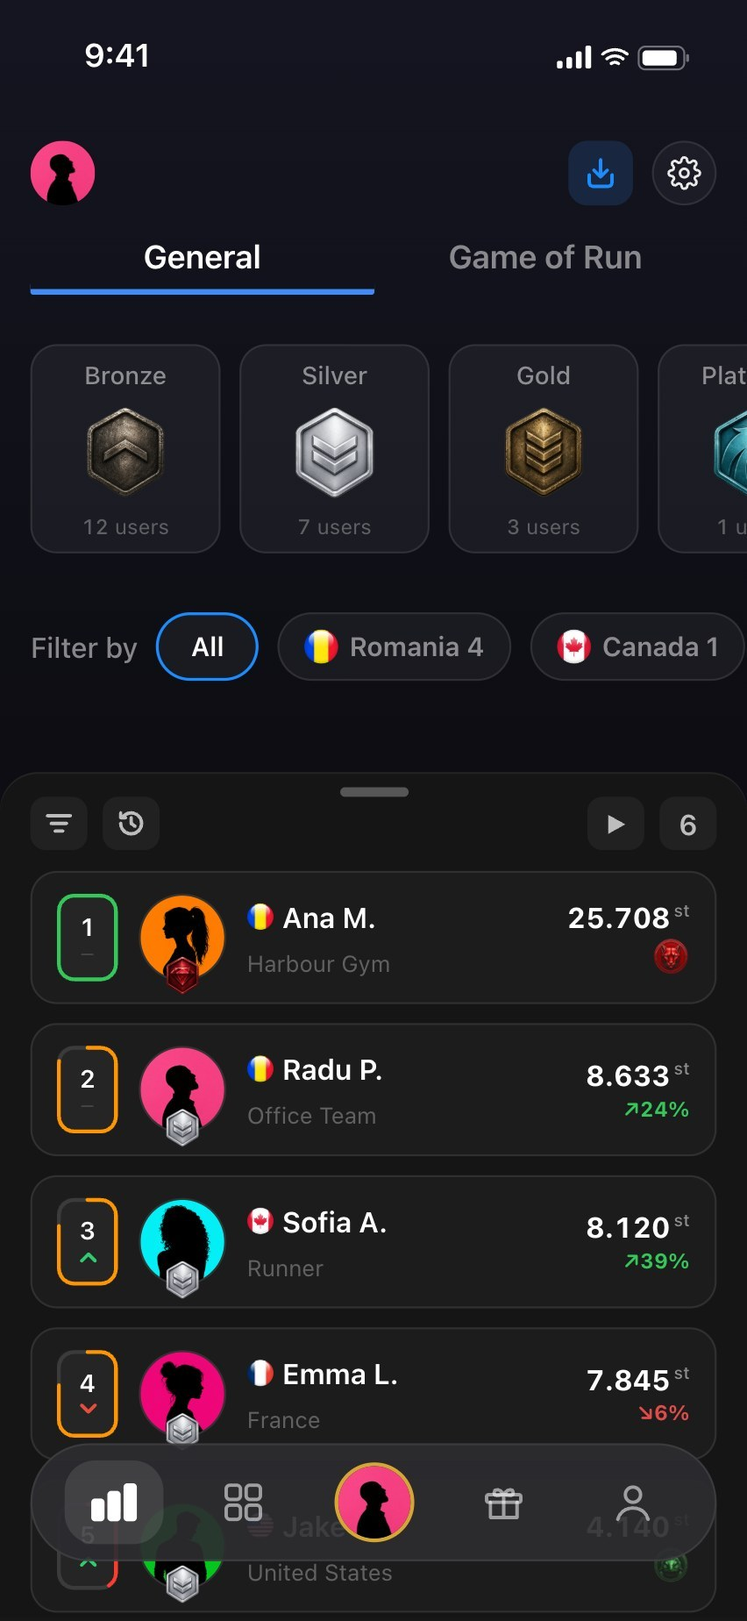
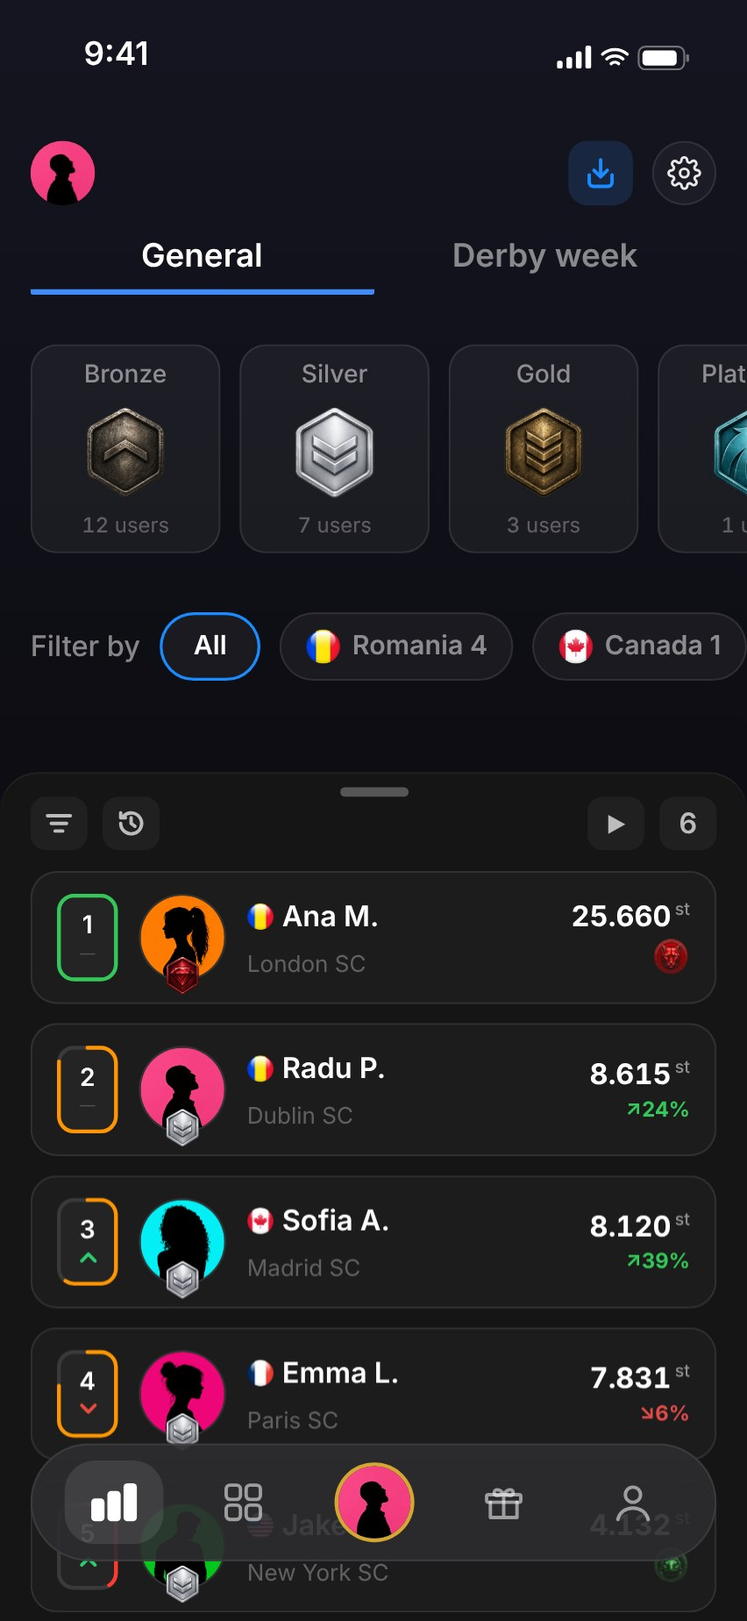
feat(deck): 06 "Every fan, on the board", clean, supporters' clubs on the phone
The page is the heading row, the title and one line ("By fan, supporters'
club or country."); the four bullet points are gone. On the phone the
second tab reads Derby week and each fan's line is a supporters' club
(London SC, Dublin SC, Paris SC, ...). The 3D phone's screen capture is
re-taken from the new screen.

Claude-Session: https://claude.ai/code/session_0176LBLgCEuv1DSL9VebKTjy

diff --git a/proto/deck-jelly.html b/proto/deck-jelly.html
@@ -203,27 +203,21 @@
     <div class="feat__stick">
       <div class="feat__track">
         <article class="feat__panel feat__panel--app" aria-labelledby="featRankTitle">
-          <div class="feat__intro"><p class="eng-k feat__idx"><b>06</b><span>Leaderboard</span><em>Walking</em></p><h2 class="feat__title" id="featRankTitle">Every step, <em>ranked live</em>.</h2><p class="feat__lede">The steps board from the SportIn app, by person, team or country.</p></div>
+          <div class="feat__intro"><p class="eng-k feat__idx"><b>06</b><span>Leaderboard</span><em>Every fan</em></p><h2 class="feat__title" id="featRankTitle">Every fan, <em>on the board</em>.</h2><p class="feat__lede">By fan, supporters&rsquo; club or country.</p></div>
           <div class="big big--app" data-demo="ranking">
-            <div class="phone" aria-hidden="true" data-screen="/proto/media/features/screen-walking.jpg?v=2">
+            <div class="phone" aria-hidden="true" data-screen="/proto/media/features/screen-walking.jpg?v=3">
               <div class="phone__screen"><div class="ios ios--lb" data-w="393">
                 <div class="ios__status"><span>9:41</span><svg width="70" height="13" viewBox="0 0 70 13"><g fill="#fff"><rect x="0" y="8" width="3" height="4" rx="1"/><rect x="5" y="6" width="3" height="6" rx="1"/><rect x="10" y="3" width="3" height="9" rx="1"/><rect x="15" y="0" width="3" height="12" rx="1"/><rect x="43" y="0.5" width="24" height="12" rx="3.5" fill="none" stroke="#fff" stroke-opacity=".4"/><rect x="45" y="2.5" width="18" height="8" rx="2"/><rect x="68" y="4.5" width="1.5" height="4" rx=".7" fill-opacity=".4"/></g><path d="M24 4.5a10 10 0 0 1 13 0M26.2 7a6.5 6.5 0 0 1 8.6 0M28.5 9.5a3 3 0 0 1 4 0" fill="none" stroke="#fff" stroke-width="1.6" stroke-linecap="round"/></svg></div>
                 <div class="lbh"><img class="lbh__me" src="/proto/media/app/default_avatar_male_1.png" alt="" /><span class="lbh__btns"><span class="lbh__btn"><svg width="18" height="18" viewBox="0 0 18 18" fill="none" stroke="currentColor" stroke-width="1.8" stroke-linecap="round" stroke-linejoin="round"><path d="M9 2v9M5.5 7.5L9 11l3.5-3.5M3 10v4a2 2 0 0 0 2 2h8a2 2 0 0 0 2-2v-4"/></svg></span><span class="lbh__btn lbh__btn--round"><svg width="18" height="18" viewBox="0 0 24 24" fill="none" stroke="currentColor" stroke-width="1.8" stroke-linecap="round" stroke-linejoin="round"><circle cx="12" cy="12" r="3"/><path d="M19.4 15a1.7 1.7 0 0 0 .3 1.8l.1.1a2 2 0 1 1-2.8 2.8l-.1-.1a1.7 1.7 0 0 0-1.8-.3 1.7 1.7 0 0 0-1 1.5V21a2 2 0 1 1-4 0v-.1a1.7 1.7 0 0 0-1.1-1.5 1.7 1.7 0 0 0-1.8.3l-.1.1a2 2 0 1 1-2.8-2.8l.1-.1a1.7 1.7 0 0 0 .3-1.8 1.7 1.7 0 0 0-1.5-1H3a2 2 0 1 1 0-4h.1a1.7 1.7 0 0 0 1.5-1.1 1.7 1.7 0 0 0-.3-1.8l-.1-.1a2 2 0 1 1 2.8-2.8l.1.1a1.7 1.7 0 0 0 1.8.3H9a1.7 1.7 0 0 0 1-1.5V3a2 2 0 1 1 4 0v.1a1.7 1.7 0 0 0 1 1.5 1.7 1.7 0 0 0 1.8-.3l.1-.1a2 2 0 1 1 2.8 2.8l-.1.1a1.7 1.7 0 0 0-.3 1.8V9a1.7 1.7 0 0 0 1.5 1H21a2 2 0 1 1 0 4h-.1a1.7 1.7 0 0 0-1.5 1z"/></svg></span></span></div>
-                <div class="lbt"><span class="is-on">General</span><span>Game of Run</span></div>
+                <div class="lbt"><span class="is-on">General</span><span>Derby week</span></div>
                 <div class="lbtiers"><div class="tcard"><b>Bronze</b><img src="/proto/media/app/tier_bronze.png" alt="" /><span><i class="r">12</i> users</span></div><div class="tcard"><b>Silver</b><img src="/proto/media/app/tier_silver.png" alt="" /><span><i class="r">7</i> users</span></div><div class="tcard"><b>Gold</b><img src="/proto/media/app/tier_gold.png" alt="" /><span><i class="r">3</i> users</span></div><div class="tcard"><b>Platinum</b><img src="/proto/media/app/tier_platinum.png" alt="" /><span><i class="r">1</i> user</span></div></div>
                 <div class="lbf"><span>Filter by</span><b class="lbchip lbchip--all is-on">All</b><b class="lbchip"><img src="/proto/media/app/flag_ro.png" alt="" />Romania 4</b><b class="lbchip"><img src="/proto/media/app/flag_ca.png" alt="" />Canada 1</b></div>
                 <div class="lbs"><div class="lbs__grab"></div><div class="lbs__tools"><span><svg width="16" height="16" viewBox="0 0 16 16" fill="none" stroke="currentColor" stroke-width="1.8" stroke-linecap="round" stroke-linejoin="round"><path d="M2 4h12M4 8h8M6 12h4"/></svg></span><span><svg width="16" height="16" viewBox="0 0 16 16" fill="none" stroke="currentColor" stroke-width="1.8" stroke-linecap="round" stroke-linejoin="round"><path d="M2.5 8a5.5 5.5 0 1 0 1.6-3.9M2.5 2.5v2.5H5M8 5v3l2 1.5"/></svg></span><span class="push"><svg width="12" height="13" viewBox="0 0 12 13"><path d="M2 1.5l9 5-9 5z" fill="currentColor"/></svg></span><span class="r">6</span></div>
-                  <div class="lbs__rows"><div class="lbr" data-i="0" data-rank="1" data-v="25588" style="--slot:0"><span class="rk" style="--sc:rgb(52,199,89);--sp:1.000"><svg viewBox="0 0 32 46"><path class="rk__track" d="M16 1H23A8 8 0 0 1 31 9V37A8 8 0 0 1 23 45H9A8 8 0 0 1 1 37V9A8 8 0 0 1 9 1Z"/><path class="rk__prog" pathLength="1" d="M16 1H23A8 8 0 0 1 31 9V37A8 8 0 0 1 23 45H9A8 8 0 0 1 1 37V9A8 8 0 0 1 9 1Z"/></svg><span class="rk__in"><b class="rk__n">1</b><span class="rk__c">—</span></span></span><span class="lbav"><img src="/proto/media/app/default_avatar_female_1.png" alt="" /><img class="lbav__tier" src="/proto/media/app/tier_diamond.png" alt="" /></span><span class="lbw"><span class="lbw__n"><img src="/proto/media/app/flag_ro.png" alt="" />Ana M.</span><span class="lbw__s">Harbour Gym</span></span><span class="val"><span class="val__n r"><b>25.588</b><sup>st</sup></span><img src="/proto/media/app/puma_coin_master.png" alt="" /></span></div><div class="lbr" data-i="1" data-rank="2" data-v="8588" style="--slot:1"><span class="rk" style="--sc:rgb(255,149,0);--sp:0.859"><svg viewBox="0 0 32 46"><path class="rk__track" d="M16 1H23A8 8 0 0 1 31 9V37A8 8 0 0 1 23 45H9A8 8 0 0 1 1 37V9A8 8 0 0 1 9 1Z"/><path class="rk__prog" pathLength="1" d="M16 1H23A8 8 0 0 1 31 9V37A8 8 0 0 1 23 45H9A8 8 0 0 1 1 37V9A8 8 0 0 1 9 1Z"/></svg><span class="rk__in"><b class="rk__n">2</b><span class="rk__c">—</span></span></span><span class="lbav"><img src="/proto/media/app/default_avatar_male_1.png" alt="" /><img class="lbav__tier" src="/proto/media/app/tier_silver.png" alt="" /></span><span class="lbw"><span class="lbw__n"><img src="/proto/media/app/flag_ro.png" alt="" />Radu P.</span><span class="lbw__s">Office Team</span></span><span class="val"><span class="val__n r"><b>8.588</b><sup>st</sup></span><em class="r up">↗24%</em></span></div><div class="lbr" data-i="2" data-rank="3" data-v="7810" style="--slot:2"><span class="rk" style="--sc:rgb(255,149,0);--sp:0.781"><svg viewBox="0 0 32 46"><path class="rk__track" d="M16 1H23A8 8 0 0 1 31 9V37A8 8 0 0 1 23 45H9A8 8 0 0 1 1 37V9A8 8 0 0 1 9 1Z"/><path class="rk__prog" pathLength="1" d="M16 1H23A8 8 0 0 1 31 9V37A8 8 0 0 1 23 45H9A8 8 0 0 1 1 37V9A8 8 0 0 1 9 1Z"/></svg><span class="rk__in"><b class="rk__n">3</b><span class="rk__c">—</span></span></span><span class="lbav"><img src="/proto/media/app/default_avatar_female_2.png" alt="" /><img class="lbav__tier" src="/proto/media/app/tier_silver.png" alt="" /></span><span class="lbw"><span class="lbw__n"><img src="/proto/media/app/flag_fr.png" alt="" />Emma L.</span><span class="lbw__s">France</span></span><span class="val"><span class="val__n r"><b>7.810</b><sup>st</sup></span><em class="r down">↘6%</em></span></div><div class="lbr" data-i="3" data-rank="4" data-v="5832" style="--slot:3"><span class="rk" style="--sc:rgb(255,149,0);--sp:0.583"><svg viewBox="0 0 32 46"><path class="rk__track" d="M16 1H23A8 8 0 0 1 31 9V37A8 8 0 0 1 23 45H9A8 8 0 0 1 1 37V9A8 8 0 0 1 9 1Z"/><path class="rk__prog" pathLength="1" d="M16 1H23A8 8 0 0 1 31 9V37A8 8 0 0 1 23 45H9A8 8 0 0 1 1 37V9A8 8 0 0 1 9 1Z"/></svg><span class="rk__in"><b class="rk__n">4</b><span class="rk__c"><svg width="9" height="6" viewBox="0 0 9 6"><path d="M1 5l3.5-3.5L8 5" fill="none" stroke="rgb(46,204,113)" stroke-width="1.8" stroke-linecap="round" stroke-linejoin="round"/></svg></span></span></span><span class="lbav"><img src="/proto/media/app/default_avatar_female_3.png" alt="" /><img class="lbav__tier" src="/proto/media/app/tier_silver.png" alt="" /></span><span class="lbw"><span class="lbw__n"><img src="/proto/media/app/flag_ca.png" alt="" />Sofia A.</span><span class="lbw__s">Runner</span></span><span class="val"><span class="val__n r"><b>5.832</b><sup>st</sup></span><em class="r down">↘11%</em></span></div><div class="lbr" data-i="4" data-rank="5" data-v="4120" style="--slot:4"><span class="rk" style="--sc:rgb(255,59,48);--sp:0.412"><svg viewBox="0 0 32 46"><path class="rk__track" d="M16 1H23A8 8 0 0 1 31 9V37A8 8 0 0 1 23 45H9A8 8 0 0 1 1 37V9A8 8 0 0 1 9 1Z"/><path class="rk__prog" pathLength="1" d="M16 1H23A8 8 0 0 1 31 9V37A8 8 0 0 1 23 45H9A8 8 0 0 1 1 37V9A8 8 0 0 1 9 1Z"/></svg><span class="rk__in"><b class="rk__n">5</b><span class="rk__c"><svg width="9" height="6" viewBox="0 0 9 6"><path d="M1 5l3.5-3.5L8 5" fill="none" stroke="rgb(46,204,113)" stroke-width="1.8" stroke-linecap="round" stroke-linejoin="round"/></svg></span></span></span><span class="lbav"><img src="/proto/media/app/default_avatar_male_2.png" alt="" /><img class="lbav__tier" src="/proto/media/app/tier_silver.png" alt="" /></span><span class="lbw"><span class="lbw__n"><img src="/proto/media/app/flag_us.png" alt="" />Jake M.</span><span class="lbw__s">United States</span></span><span class="val"><span class="val__n r"><b>4.120</b><sup>st</sup></span><img src="/proto/media/app/turtle_coin_green.png" alt="" /></span></div><div class="lbr" data-i="5" data-rank="6" data-v="3640" style="--slot:5"><span class="rk" style="--sc:rgb(255,59,48);--sp:0.364"><svg viewBox="0 0 32 46"><path class="rk__track" d="M16 1H23A8 8 0 0 1 31 9V37A8 8 0 0 1 23 45H9A8 8 0 0 1 1 37V9A8 8 0 0 1 9 1Z"/><path class="rk__prog" pathLength="1" d="M16 1H23A8 8 0 0 1 31 9V37A8 8 0 0 1 23 45H9A8 8 0 0 1 1 37V9A8 8 0 0 1 9 1Z"/></svg><span class="rk__in"><b class="rk__n">6</b><span class="rk__c">—</span></span></span><span class="lbav"><img src="/proto/media/app/default_avatar_male_3.png" alt="" /><img class="lbav__tier" src="/proto/media/app/tier_bronze.png" alt="" /></span><span class="lbw"><span class="lbw__n"><img src="/proto/media/app/flag_ro.png" alt="" />Mihai D.</span><span class="lbw__s">Bike Club</span></span><span class="val"><span class="val__n r"><b>3.640</b><sup>st</sup></span><em class="r up">↗8%</em></span></div><div class="lbr" data-i="6" data-rank="7" data-v="2904" style="--slot:6"><span class="rk" style="--sc:rgb(255,59,48);--sp:0.290"><svg viewBox="0 0 32 46"><path class="rk__track" d="M16 1H23A8 8 0 0 1 31 9V37A8 8 0 0 1 23 45H9A8 8 0 0 1 1 37V9A8 8 0 0 1 9 1Z"/><path class="rk__prog" pathLength="1" d="M16 1H23A8 8 0 0 1 31 9V37A8 8 0 0 1 23 45H9A8 8 0 0 1 1 37V9A8 8 0 0 1 9 1Z"/></svg><span class="rk__in"><b class="rk__n">7</b><span class="rk__c">—</span></span></span><span class="lbav"><img src="/proto/media/app/default_avatar_female_1.png" alt="" /><img class="lbav__tier" src="/proto/media/app/tier_bronze.png" alt="" /></span><span class="lbw"><span class="lbw__n"><img src="/proto/media/app/flag_es.png" alt="" />Elena S.</span><span class="lbw__s">Park Crew</span></span><span class="val"><span class="val__n r"><b>2.904</b><sup>st</sup></span><em class="r down">↘3%</em></span></div></div></div>
+                  <div class="lbs__rows"><div class="lbr" data-i="0" data-rank="1" data-v="25588" style="--slot:0"><span class="rk" style="--sc:rgb(52,199,89);--sp:1.000"><svg viewBox="0 0 32 46"><path class="rk__track" d="M16 1H23A8 8 0 0 1 31 9V37A8 8 0 0 1 23 45H9A8 8 0 0 1 1 37V9A8 8 0 0 1 9 1Z"/><path class="rk__prog" pathLength="1" d="M16 1H23A8 8 0 0 1 31 9V37A8 8 0 0 1 23 45H9A8 8 0 0 1 1 37V9A8 8 0 0 1 9 1Z"/></svg><span class="rk__in"><b class="rk__n">1</b><span class="rk__c">—</span></span></span><span class="lbav"><img src="/proto/media/app/default_avatar_female_1.png" alt="" /><img class="lbav__tier" src="/proto/media/app/tier_diamond.png" alt="" /></span><span class="lbw"><span class="lbw__n"><img src="/proto/media/app/flag_ro.png" alt="" />Ana M.</span><span class="lbw__s">London SC</span></span><span class="val"><span class="val__n r"><b>25.588</b><sup>st</sup></span><img src="/proto/media/app/puma_coin_master.png" alt="" /></span></div><div class="lbr" data-i="1" data-rank="2" data-v="8588" style="--slot:1"><span class="rk" style="--sc:rgb(255,149,0);--sp:0.859"><svg viewBox="0 0 32 46"><path class="rk__track" d="M16 1H23A8 8 0 0 1 31 9V37A8 8 0 0 1 23 45H9A8 8 0 0 1 1 37V9A8 8 0 0 1 9 1Z"/><path class="rk__prog" pathLength="1" d="M16 1H23A8 8 0 0 1 31 9V37A8 8 0 0 1 23 45H9A8 8 0 0 1 1 37V9A8 8 0 0 1 9 1Z"/></svg><span class="rk__in"><b class="rk__n">2</b><span class="rk__c">—</span></span></span><span class="lbav"><img src="/proto/media/app/default_avatar_male_1.png" alt="" /><img class="lbav__tier" src="/proto/media/app/tier_silver.png" alt="" /></span><span class="lbw"><span class="lbw__n"><img src="/proto/media/app/flag_ro.png" alt="" />Radu P.</span><span class="lbw__s">Dublin SC</span></span><span class="val"><span class="val__n r"><b>8.588</b><sup>st</sup></span><em class="r up">↗24%</em></span></div><div class="lbr" data-i="2" data-rank="3" data-v="7810" style="--slot:2"><span class="rk" style="--sc:rgb(255,149,0);--sp:0.781"><svg viewBox="0 0 32 46"><path class="rk__track" d="M16 1H23A8 8 0 0 1 31 9V37A8 8 0 0 1 23 45H9A8 8 0 0 1 1 37V9A8 8 0 0 1 9 1Z"/><path class="rk__prog" pathLength="1" d="M16 1H23A8 8 0 0 1 31 9V37A8 8 0 0 1 23 45H9A8 8 0 0 1 1 37V9A8 8 0 0 1 9 1Z"/></svg><span class="rk__in"><b class="rk__n">3</b><span class="rk__c">—</span></span></span><span class="lbav"><img src="/proto/media/app/default_avatar_female_2.png" alt="" /><img class="lbav__tier" src="/proto/media/app/tier_silver.png" alt="" /></span><span class="lbw"><span class="lbw__n"><img src="/proto/media/app/flag_fr.png" alt="" />Emma L.</span><span class="lbw__s">Paris SC</span></span><span class="val"><span class="val__n r"><b>7.810</b><sup>st</sup></span><em class="r down">↘6%</em></span></div><div class="lbr" data-i="3" data-rank="4" data-v="5832" style="--slot:3"><span class="rk" style="--sc:rgb(255,149,0);--sp:0.583"><svg viewBox="0 0 32 46"><path class="rk__track" d="M16 1H23A8 8 0 0 1 31 9V37A8 8 0 0 1 23 45H9A8 8 0 0 1 1 37V9A8 8 0 0 1 9 1Z"/><path class="rk__prog" pathLength="1" d="M16 1H23A8 8 0 0 1 31 9V37A8 8 0 0 1 23 45H9A8 8 0 0 1 1 37V9A8 8 0 0 1 9 1Z"/></svg><span class="rk__in"><b class="rk__n">4</b><span class="rk__c"><svg width="9" height="6" viewBox="0 0 9 6"><path d="M1 5l3.5-3.5L8 5" fill="none" stroke="rgb(46,204,113)" stroke-width="1.8" stroke-linecap="round" stroke-linejoin="round"/></svg></span></span></span><span class="lbav"><img src="/proto/media/app/default_avatar_female_3.png" alt="" /><img class="lbav__tier" src="/proto/media/app/tier_silver.png" alt="" /></span><span class="lbw"><span class="lbw__n"><img src="/proto/media/app/flag_ca.png" alt="" />Sofia A.</span><span class="lbw__s">Madrid SC</span></span><span class="val"><span class="val__n r"><b>5.832</b><sup>st</sup></span><em class="r down">↘11%</em></span></div><div class="lbr" data-i="4" data-rank="5" data-v="4120" style="--slot:4"><span class="rk" style="--sc:rgb(255,59,48);--sp:0.412"><svg viewBox="0 0 32 46"><path class="rk__track" d="M16 1H23A8 8 0 0 1 31 9V37A8 8 0 0 1 23 45H9A8 8 0 0 1 1 37V9A8 8 0 0 1 9 1Z"/><path class="rk__prog" pathLength="1" d="M16 1H23A8 8 0 0 1 31 9V37A8 8 0 0 1 23 45H9A8 8 0 0 1 1 37V9A8 8 0 0 1 9 1Z"/></svg><span class="rk__in"><b class="rk__n">5</b><span class="rk__c"><svg width="9" height="6" viewBox="0 0 9 6"><path d="M1 5l3.5-3.5L8 5" fill="none" stroke="rgb(46,204,113)" stroke-width="1.8" stroke-linecap="round" stroke-linejoin="round"/></svg></span></span></span><span class="lbav"><img src="/proto/media/app/default_avatar_male_2.png" alt="" /><img class="lbav__tier" src="/proto/media/app/tier_silver.png" alt="" /></span><span class="lbw"><span class="lbw__n"><img src="/proto/media/app/flag_us.png" alt="" />Jake M.</span><span class="lbw__s">New York SC</span></span><span class="val"><span class="val__n r"><b>4.120</b><sup>st</sup></span><img src="/proto/media/app/turtle_coin_green.png" alt="" /></span></div><div class="lbr" data-i="5" data-rank="6" data-v="3640" style="--slot:5"><span class="rk" style="--sc:rgb(255,59,48);--sp:0.364"><svg viewBox="0 0 32 46"><path class="rk__track" d="M16 1H23A8 8 0 0 1 31 9V37A8 8 0 0 1 23 45H9A8 8 0 0 1 1 37V9A8 8 0 0 1 9 1Z"/><path class="rk__prog" pathLength="1" d="M16 1H23A8 8 0 0 1 31 9V37A8 8 0 0 1 23 45H9A8 8 0 0 1 1 37V9A8 8 0 0 1 9 1Z"/></svg><span class="rk__in"><b class="rk__n">6</b><span class="rk__c">—</span></span></span><span class="lbav"><img src="/proto/media/app/default_avatar_male_3.png" alt="" /><img class="lbav__tier" src="/proto/media/app/tier_bronze.png" alt="" /></span><span class="lbw"><span class="lbw__n"><img src="/proto/media/app/flag_ro.png" alt="" />Mihai D.</span><span class="lbw__s">North Stand</span></span><span class="val"><span class="val__n r"><b>3.640</b><sup>st</sup></span><em class="r up">↗8%</em></span></div><div class="lbr" data-i="6" data-rank="7" data-v="2904" style="--slot:6"><span class="rk" style="--sc:rgb(255,59,48);--sp:0.290"><svg viewBox="0 0 32 46"><path class="rk__track" d="M16 1H23A8 8 0 0 1 31 9V37A8 8 0 0 1 23 45H9A8 8 0 0 1 1 37V9A8 8 0 0 1 9 1Z"/><path class="rk__prog" pathLength="1" d="M16 1H23A8 8 0 0 1 31 9V37A8 8 0 0 1 23 45H9A8 8 0 0 1 1 37V9A8 8 0 0 1 9 1Z"/></svg><span class="rk__in"><b class="rk__n">7</b><span class="rk__c">—</span></span></span><span class="lbav"><img src="/proto/media/app/default_avatar_female_1.png" alt="" /><img class="lbav__tier" src="/proto/media/app/tier_bronze.png" alt="" /></span><span class="lbw"><span class="lbw__n"><img src="/proto/media/app/flag_es.png" alt="" />Elena S.</span><span class="lbw__s">Toronto SC</span></span><span class="val"><span class="val__n r"><b>2.904</b><sup>st</sup></span><em class="r down">↘3%</em></span></div></div></div>
                 <div class="lbtab"><span class="is-on"><svg width="26" height="22" viewBox="0 0 26 22" fill="currentColor"><rect x="1" y="9" width="7" height="12" rx="2"/><rect x="9.5" y="5" width="7" height="16" rx="2"/><rect x="18" y="1" width="7" height="20" rx="2"/></svg></span><span><svg width="24" height="24" viewBox="0 0 24 24" fill="none" stroke="currentColor" stroke-width="1.8" stroke-linecap="round" stroke-linejoin="round"><rect x="3" y="3" width="7.5" height="7.5" rx="2"/><rect x="13.5" y="3" width="7.5" height="7.5" rx="2"/><rect x="3" y="13.5" width="7.5" height="7.5" rx="2"/><rect x="13.5" y="13.5" width="7.5" height="7.5" rx="2"/></svg></span><span><img src="/proto/media/app/default_avatar_male_1.png" alt="" /></span><span><svg width="24" height="24" viewBox="0 0 24 24" fill="none" stroke="currentColor" stroke-width="1.8" stroke-linecap="round" stroke-linejoin="round"><rect x="3" y="8" width="18" height="4" rx="1"/><path d="M5 12v8h14v-8M12 8v12M12 8c-1.5-3-5-3.5-5-1s3 1 5 1c2 0 5 1.5 5-1s-3.5-2-5 1"/></svg></span><span><svg width="24" height="24" viewBox="0 0 24 24" fill="none" stroke="currentColor" stroke-width="1.8" stroke-linecap="round" stroke-linejoin="round"><circle cx="12" cy="8" r="4"/><path d="M4 21c1-4 4.5-6 8-6s7 2 8 6"/></svg></span></div>
               </div></div>
               <img class="phone__frame" src="/proto/media/frames/phone-frame-3d.png" alt="" />
             </div>
-            <ul class="points">
-              <li><b>Individuals</b><span>Every member, ranked by steps through the day.</span></li>
-              <li><b>Teams</b><span>Departments, clubs and crews add up as one.</span></li>
-              <li><b>Countries</b><span>Each country's members on one board.</span></li>
-              <li><b>Medals and target</b><span>Gold, silver and bronze, plus points for the daily target.</span></li>
-            </ul>
           </div>
         </article>
         <article class="feat__panel feat__panel--app" aria-labelledby="featRunTitle">

diff --git a/proto/deck.html b/proto/deck.html
@@ -203,27 +203,21 @@
     <div class="feat__stick">
       <div class="feat__track">
         <article class="feat__panel feat__panel--app" aria-labelledby="featRankTitle">
-          <div class="feat__intro"><p class="eng-k feat__idx"><b>06</b><span>Leaderboard</span><em>Walking</em></p><h2 class="feat__title" id="featRankTitle">Every step, <em>ranked live</em>.</h2><p class="feat__lede">The steps board from the SportIn app, by person, team or country.</p></div>
+          <div class="feat__intro"><p class="eng-k feat__idx"><b>06</b><span>Leaderboard</span><em>Every fan</em></p><h2 class="feat__title" id="featRankTitle">Every fan, <em>on the board</em>.</h2><p class="feat__lede">By fan, supporters&rsquo; club or country.</p></div>
           <div class="big big--app" data-demo="ranking">
-            <div class="phone" aria-hidden="true" data-screen="/proto/media/features/screen-walking.jpg?v=2">
+            <div class="phone" aria-hidden="true" data-screen="/proto/media/features/screen-walking.jpg?v=3">
               <div class="phone__screen"><div class="ios ios--lb" data-w="393">
                 <div class="ios__status"><span>9:41</span><svg width="70" height="13" viewBox="0 0 70 13"><g fill="#fff"><rect x="0" y="8" width="3" height="4" rx="1"/><rect x="5" y="6" width="3" height="6" rx="1"/><rect x="10" y="3" width="3" height="9" rx="1"/><rect x="15" y="0" width="3" height="12" rx="1"/><rect x="43" y="0.5" width="24" height="12" rx="3.5" fill="none" stroke="#fff" stroke-opacity=".4"/><rect x="45" y="2.5" width="18" height="8" rx="2"/><rect x="68" y="4.5" width="1.5" height="4" rx=".7" fill-opacity=".4"/></g><path d="M24 4.5a10 10 0 0 1 13 0M26.2 7a6.5 6.5 0 0 1 8.6 0M28.5 9.5a3 3 0 0 1 4 0" fill="none" stroke="#fff" stroke-width="1.6" stroke-linecap="round"/></svg></div>
                 <div class="lbh"><img class="lbh__me" src="/proto/media/app/default_avatar_male_1.png" alt="" /><span class="lbh__btns"><span class="lbh__btn"><svg width="18" height="18" viewBox="0 0 18 18" fill="none" stroke="currentColor" stroke-width="1.8" stroke-linecap="round" stroke-linejoin="round"><path d="M9 2v9M5.5 7.5L9 11l3.5-3.5M3 10v4a2 2 0 0 0 2 2h8a2 2 0 0 0 2-2v-4"/></svg></span><span class="lbh__btn lbh__btn--round"><svg width="18" height="18" viewBox="0 0 24 24" fill="none" stroke="currentColor" stroke-width="1.8" stroke-linecap="round" stroke-linejoin="round"><circle cx="12" cy="12" r="3"/><path d="M19.4 15a1.7 1.7 0 0 0 .3 1.8l.1.1a2 2 0 1 1-2.8 2.8l-.1-.1a1.7 1.7 0 0 0-1.8-.3 1.7 1.7 0 0 0-1 1.5V21a2 2 0 1 1-4 0v-.1a1.7 1.7 0 0 0-1.1-1.5 1.7 1.7 0 0 0-1.8.3l-.1.1a2 2 0 1 1-2.8-2.8l.1-.1a1.7 1.7 0 0 0 .3-1.8 1.7 1.7 0 0 0-1.5-1H3a2 2 0 1 1 0-4h.1a1.7 1.7 0 0 0 1.5-1.1 1.7 1.7 0 0 0-.3-1.8l-.1-.1a2 2 0 1 1 2.8-2.8l.1.1a1.7 1.7 0 0 0 1.8.3H9a1.7 1.7 0 0 0 1-1.5V3a2 2 0 1 1 4 0v.1a1.7 1.7 0 0 0 1 1.5 1.7 1.7 0 0 0 1.8-.3l.1-.1a2 2 0 1 1 2.8 2.8l-.1.1a1.7 1.7 0 0 0-.3 1.8V9a1.7 1.7 0 0 0 1.5 1H21a2 2 0 1 1 0 4h-.1a1.7 1.7 0 0 0-1.5 1z"/></svg></span></span></div>
-                <div class="lbt"><span class="is-on">General</span><span>Game of Run</span></div>
+                <div class="lbt"><span class="is-on">General</span><span>Derby week</span></div>
                 <div class="lbtiers"><div class="tcard"><b>Bronze</b><img src="/proto/media/app/tier_bronze.png" alt="" /><span><i class="r">12</i> users</span></div><div class="tcard"><b>Silver</b><img src="/proto/media/app/tier_silver.png" alt="" /><span><i class="r">7</i> users</span></div><div class="tcard"><b>Gold</b><img src="/proto/media/app/tier_gold.png" alt="" /><span><i class="r">3</i> users</span></div><div class="tcard"><b>Platinum</b><img src="/proto/media/app/tier_platinum.png" alt="" /><span><i class="r">1</i> user</span></div></div>
                 <div class="lbf"><span>Filter by</span><b class="lbchip lbchip--all is-on">All</b><b class="lbchip"><img src="/proto/media/app/flag_ro.png" alt="" />Romania 4</b><b class="lbchip"><img src="/proto/media/app/flag_ca.png" alt="" />Canada 1</b></div>
                 <div class="lbs"><div class="lbs__grab"></div><div class="lbs__tools"><span><svg width="16" height="16" viewBox="0 0 16 16" fill="none" stroke="currentColor" stroke-width="1.8" stroke-linecap="round" stroke-linejoin="round"><path d="M2 4h12M4 8h8M6 12h4"/></svg></span><span><svg width="16" height="16" viewBox="0 0 16 16" fill="none" stroke="currentColor" stroke-width="1.8" stroke-linecap="round" stroke-linejoin="round"><path d="M2.5 8a5.5 5.5 0 1 0 1.6-3.9M2.5 2.5v2.5H5M8 5v3l2 1.5"/></svg></span><span class="push"><svg width="12" height="13" viewBox="0 0 12 13"><path d="M2 1.5l9 5-9 5z" fill="currentColor"/></svg></span><span class="r">6</span></div>
-                  <div class="lbs__rows"><div class="lbr" data-i="0" data-rank="1" data-v="25588" style="--slot:0"><span class="rk" style="--sc:rgb(52,199,89);--sp:1.000"><svg viewBox="0 0 32 46"><path class="rk__track" d="M16 1H23A8 8 0 0 1 31 9V37A8 8 0 0 1 23 45H9A8 8 0 0 1 1 37V9A8 8 0 0 1 9 1Z"/><path class="rk__prog" pathLength="1" d="M16 1H23A8 8 0 0 1 31 9V37A8 8 0 0 1 23 45H9A8 8 0 0 1 1 37V9A8 8 0 0 1 9 1Z"/></svg><span class="rk__in"><b class="rk__n">1</b><span class="rk__c">—</span></span></span><span class="lbav"><img src="/proto/media/app/default_avatar_female_1.png" alt="" /><img class="lbav__tier" src="/proto/media/app/tier_diamond.png" alt="" /></span><span class="lbw"><span class="lbw__n"><img src="/proto/media/app/flag_ro.png" alt="" />Ana M.</span><span class="lbw__s">Harbour Gym</span></span><span class="val"><span class="val__n r"><b>25.588</b><sup>st</sup></span><img src="/proto/media/app/puma_coin_master.png" alt="" /></span></div><div class="lbr" data-i="1" data-rank="2" data-v="8588" style="--slot:1"><span class="rk" style="--sc:rgb(255,149,0);--sp:0.859"><svg viewBox="0 0 32 46"><path class="rk__track" d="M16 1H23A8 8 0 0 1 31 9V37A8 8 0 0 1 23 45H9A8 8 0 0 1 1 37V9A8 8 0 0 1 9 1Z"/><path class="rk__prog" pathLength="1" d="M16 1H23A8 8 0 0 1 31 9V37A8 8 0 0 1 23 45H9A8 8 0 0 1 1 37V9A8 8 0 0 1 9 1Z"/></svg><span class="rk__in"><b class="rk__n">2</b><span class="rk__c">—</span></span></span><span class="lbav"><img src="/proto/media/app/default_avatar_male_1.png" alt="" /><img class="lbav__tier" src="/proto/media/app/tier_silver.png" alt="" /></span><span class="lbw"><span class="lbw__n"><img src="/proto/media/app/flag_ro.png" alt="" />Radu P.</span><span class="lbw__s">Office Team</span></span><span class="val"><span class="val__n r"><b>8.588</b><sup>st</sup></span><em class="r up">↗24%</em></span></div><div class="lbr" data-i="2" data-rank="3" data-v="7810" style="--slot:2"><span class="rk" style="--sc:rgb(255,149,0);--sp:0.781"><svg viewBox="0 0 32 46"><path class="rk__track" d="M16 1H23A8 8 0 0 1 31 9V37A8 8 0 0 1 23 45H9A8 8 0 0 1 1 37V9A8 8 0 0 1 9 1Z"/><path class="rk__prog" pathLength="1" d="M16 1H23A8 8 0 0 1 31 9V37A8 8 0 0 1 23 45H9A8 8 0 0 1 1 37V9A8 8 0 0 1 9 1Z"/></svg><span class="rk__in"><b class="rk__n">3</b><span class="rk__c">—</span></span></span><span class="lbav"><img src="/proto/media/app/default_avatar_female_2.png" alt="" /><img class="lbav__tier" src="/proto/media/app/tier_silver.png" alt="" /></span><span class="lbw"><span class="lbw__n"><img src="/proto/media/app/flag_fr.png" alt="" />Emma L.</span><span class="lbw__s">France</span></span><span class="val"><span class="val__n r"><b>7.810</b><sup>st</sup></span><em class="r down">↘6%</em></span></div><div class="lbr" data-i="3" data-rank="4" data-v="5832" style="--slot:3"><span class="rk" style="--sc:rgb(255,149,0);--sp:0.583"><svg viewBox="0 0 32 46"><path class="rk__track" d="M16 1H23A8 8 0 0 1 31 9V37A8 8 0 0 1 23 45H9A8 8 0 0 1 1 37V9A8 8 0 0 1 9 1Z"/><path class="rk__prog" pathLength="1" d="M16 1H23A8 8 0 0 1 31 9V37A8 8 0 0 1 23 45H9A8 8 0 0 1 1 37V9A8 8 0 0 1 9 1Z"/></svg><span class="rk__in"><b class="rk__n">4</b><span class="rk__c"><svg width="9" height="6" viewBox="0 0 9 6"><path d="M1 5l3.5-3.5L8 5" fill="none" stroke="rgb(46,204,113)" stroke-width="1.8" stroke-linecap="round" stroke-linejoin="round"/></svg></span></span></span><span class="lbav"><img src="/proto/media/app/default_avatar_female_3.png" alt="" /><img class="lbav__tier" src="/proto/media/app/tier_silver.png" alt="" /></span><span class="lbw"><span class="lbw__n"><img src="/proto/media/app/flag_ca.png" alt="" />Sofia A.</span><span class="lbw__s">Runner</span></span><span class="val"><span class="val__n r"><b>5.832</b><sup>st</sup></span><em class="r down">↘11%</em></span></div><div class="lbr" data-i="4" data-rank="5" data-v="4120" style="--slot:4"><span class="rk" style="--sc:rgb(255,59,48);--sp:0.412"><svg viewBox="0 0 32 46"><path class="rk__track" d="M16 1H23A8 8 0 0 1 31 9V37A8 8 0 0 1 23 45H9A8 8 0 0 1 1 37V9A8 8 0 0 1 9 1Z"/><path class="rk__prog" pathLength="1" d="M16 1H23A8 8 0 0 1 31 9V37A8 8 0 0 1 23 45H9A8 8 0 0 1 1 37V9A8 8 0 0 1 9 1Z"/></svg><span class="rk__in"><b class="rk__n">5</b><span class="rk__c"><svg width="9" height="6" viewBox="0 0 9 6"><path d="M1 5l3.5-3.5L8 5" fill="none" stroke="rgb(46,204,113)" stroke-width="1.8" stroke-linecap="round" stroke-linejoin="round"/></svg></span></span></span><span class="lbav"><img src="/proto/media/app/default_avatar_male_2.png" alt="" /><img class="lbav__tier" src="/proto/media/app/tier_silver.png" alt="" /></span><span class="lbw"><span class="lbw__n"><img src="/proto/media/app/flag_us.png" alt="" />Jake M.</span><span class="lbw__s">United States</span></span><span class="val"><span class="val__n r"><b>4.120</b><sup>st</sup></span><img src="/proto/media/app/turtle_coin_green.png" alt="" /></span></div><div class="lbr" data-i="5" data-rank="6" data-v="3640" style="--slot:5"><span class="rk" style="--sc:rgb(255,59,48);--sp:0.364"><svg viewBox="0 0 32 46"><path class="rk__track" d="M16 1H23A8 8 0 0 1 31 9V37A8 8 0 0 1 23 45H9A8 8 0 0 1 1 37V9A8 8 0 0 1 9 1Z"/><path class="rk__prog" pathLength="1" d="M16 1H23A8 8 0 0 1 31 9V37A8 8 0 0 1 23 45H9A8 8 0 0 1 1 37V9A8 8 0 0 1 9 1Z"/></svg><span class="rk__in"><b class="rk__n">6</b><span class="rk__c">—</span></span></span><span class="lbav"><img src="/proto/media/app/default_avatar_male_3.png" alt="" /><img class="lbav__tier" src="/proto/media/app/tier_bronze.png" alt="" /></span><span class="lbw"><span class="lbw__n"><img src="/proto/media/app/flag_ro.png" alt="" />Mihai D.</span><span class="lbw__s">Bike Club</span></span><span class="val"><span class="val__n r"><b>3.640</b><sup>st</sup></span><em class="r up">↗8%</em></span></div><div class="lbr" data-i="6" data-rank="7" data-v="2904" style="--slot:6"><span class="rk" style="--sc:rgb(255,59,48);--sp:0.290"><svg viewBox="0 0 32 46"><path class="rk__track" d="M16 1H23A8 8 0 0 1 31 9V37A8 8 0 0 1 23 45H9A8 8 0 0 1 1 37V9A8 8 0 0 1 9 1Z"/><path class="rk__prog" pathLength="1" d="M16 1H23A8 8 0 0 1 31 9V37A8 8 0 0 1 23 45H9A8 8 0 0 1 1 37V9A8 8 0 0 1 9 1Z"/></svg><span class="rk__in"><b class="rk__n">7</b><span class="rk__c">—</span></span></span><span class="lbav"><img src="/proto/media/app/default_avatar_female_1.png" alt="" /><img class="lbav__tier" src="/proto/media/app/tier_bronze.png" alt="" /></span><span class="lbw"><span class="lbw__n"><img src="/proto/media/app/flag_es.png" alt="" />Elena S.</span><span class="lbw__s">Park Crew</span></span><span class="val"><span class="val__n r"><b>2.904</b><sup>st</sup></span><em class="r down">↘3%</em></span></div></div></div>
+                  <div class="lbs__rows"><div class="lbr" data-i="0" data-rank="1" data-v="25588" style="--slot:0"><span class="rk" style="--sc:rgb(52,199,89);--sp:1.000"><svg viewBox="0 0 32 46"><path class="rk__track" d="M16 1H23A8 8 0 0 1 31 9V37A8 8 0 0 1 23 45H9A8 8 0 0 1 1 37V9A8 8 0 0 1 9 1Z"/><path class="rk__prog" pathLength="1" d="M16 1H23A8 8 0 0 1 31 9V37A8 8 0 0 1 23 45H9A8 8 0 0 1 1 37V9A8 8 0 0 1 9 1Z"/></svg><span class="rk__in"><b class="rk__n">1</b><span class="rk__c">—</span></span></span><span class="lbav"><img src="/proto/media/app/default_avatar_female_1.png" alt="" /><img class="lbav__tier" src="/proto/media/app/tier_diamond.png" alt="" /></span><span class="lbw"><span class="lbw__n"><img src="/proto/media/app/flag_ro.png" alt="" />Ana M.</span><span class="lbw__s">London SC</span></span><span class="val"><span class="val__n r"><b>25.588</b><sup>st</sup></span><img src="/proto/media/app/puma_coin_master.png" alt="" /></span></div><div class="lbr" data-i="1" data-rank="2" data-v="8588" style="--slot:1"><span class="rk" style="--sc:rgb(255,149,0);--sp:0.859"><svg viewBox="0 0 32 46"><path class="rk__track" d="M16 1H23A8 8 0 0 1 31 9V37A8 8 0 0 1 23 45H9A8 8 0 0 1 1 37V9A8 8 0 0 1 9 1Z"/><path class="rk__prog" pathLength="1" d="M16 1H23A8 8 0 0 1 31 9V37A8 8 0 0 1 23 45H9A8 8 0 0 1 1 37V9A8 8 0 0 1 9 1Z"/></svg><span class="rk__in"><b class="rk__n">2</b><span class="rk__c">—</span></span></span><span class="lbav"><img src="/proto/media/app/default_avatar_male_1.png" alt="" /><img class="lbav__tier" src="/proto/media/app/tier_silver.png" alt="" /></span><span class="lbw"><span class="lbw__n"><img src="/proto/media/app/flag_ro.png" alt="" />Radu P.</span><span class="lbw__s">Dublin SC</span></span><span class="val"><span class="val__n r"><b>8.588</b><sup>st</sup></span><em class="r up">↗24%</em></span></div><div class="lbr" data-i="2" data-rank="3" data-v="7810" style="--slot:2"><span class="rk" style="--sc:rgb(255,149,0);--sp:0.781"><svg viewBox="0 0 32 46"><path class="rk__track" d="M16 1H23A8 8 0 0 1 31 9V37A8 8 0 0 1 23 45H9A8 8 0 0 1 1 37V9A8 8 0 0 1 9 1Z"/><path class="rk__prog" pathLength="1" d="M16 1H23A8 8 0 0 1 31 9V37A8 8 0 0 1 23 45H9A8 8 0 0 1 1 37V9A8 8 0 0 1 9 1Z"/></svg><span class="rk__in"><b class="rk__n">3</b><span class="rk__c">—</span></span></span><span class="lbav"><img src="/proto/media/app/default_avatar_female_2.png" alt="" /><img class="lbav__tier" src="/proto/media/app/tier_silver.png" alt="" /></span><span class="lbw"><span class="lbw__n"><img src="/proto/media/app/flag_fr.png" alt="" />Emma L.</span><span class="lbw__s">Paris SC</span></span><span class="val"><span class="val__n r"><b>7.810</b><sup>st</sup></span><em class="r down">↘6%</em></span></div><div class="lbr" data-i="3" data-rank="4" data-v="5832" style="--slot:3"><span class="rk" style="--sc:rgb(255,149,0);--sp:0.583"><svg viewBox="0 0 32 46"><path class="rk__track" d="M16 1H23A8 8 0 0 1 31 9V37A8 8 0 0 1 23 45H9A8 8 0 0 1 1 37V9A8 8 0 0 1 9 1Z"/><path class="rk__prog" pathLength="1" d="M16 1H23A8 8 0 0 1 31 9V37A8 8 0 0 1 23 45H9A8 8 0 0 1 1 37V9A8 8 0 0 1 9 1Z"/></svg><span class="rk__in"><b class="rk__n">4</b><span class="rk__c"><svg width="9" height="6" viewBox="0 0 9 6"><path d="M1 5l3.5-3.5L8 5" fill="none" stroke="rgb(46,204,113)" stroke-width="1.8" stroke-linecap="round" stroke-linejoin="round"/></svg></span></span></span><span class="lbav"><img src="/proto/media/app/default_avatar_female_3.png" alt="" /><img class="lbav__tier" src="/proto/media/app/tier_silver.png" alt="" /></span><span class="lbw"><span class="lbw__n"><img src="/proto/media/app/flag_ca.png" alt="" />Sofia A.</span><span class="lbw__s">Madrid SC</span></span><span class="val"><span class="val__n r"><b>5.832</b><sup>st</sup></span><em class="r down">↘11%</em></span></div><div class="lbr" data-i="4" data-rank="5" data-v="4120" style="--slot:4"><span class="rk" style="--sc:rgb(255,59,48);--sp:0.412"><svg viewBox="0 0 32 46"><path class="rk__track" d="M16 1H23A8 8 0 0 1 31 9V37A8 8 0 0 1 23 45H9A8 8 0 0 1 1 37V9A8 8 0 0 1 9 1Z"/><path class="rk__prog" pathLength="1" d="M16 1H23A8 8 0 0 1 31 9V37A8 8 0 0 1 23 45H9A8 8 0 0 1 1 37V9A8 8 0 0 1 9 1Z"/></svg><span class="rk__in"><b class="rk__n">5</b><span class="rk__c"><svg width="9" height="6" viewBox="0 0 9 6"><path d="M1 5l3.5-3.5L8 5" fill="none" stroke="rgb(46,204,113)" stroke-width="1.8" stroke-linecap="round" stroke-linejoin="round"/></svg></span></span></span><span class="lbav"><img src="/proto/media/app/default_avatar_male_2.png" alt="" /><img class="lbav__tier" src="/proto/media/app/tier_silver.png" alt="" /></span><span class="lbw"><span class="lbw__n"><img src="/proto/media/app/flag_us.png" alt="" />Jake M.</span><span class="lbw__s">New York SC</span></span><span class="val"><span class="val__n r"><b>4.120</b><sup>st</sup></span><img src="/proto/media/app/turtle_coin_green.png" alt="" /></span></div><div class="lbr" data-i="5" data-rank="6" data-v="3640" style="--slot:5"><span class="rk" style="--sc:rgb(255,59,48);--sp:0.364"><svg viewBox="0 0 32 46"><path class="rk__track" d="M16 1H23A8 8 0 0 1 31 9V37A8 8 0 0 1 23 45H9A8 8 0 0 1 1 37V9A8 8 0 0 1 9 1Z"/><path class="rk__prog" pathLength="1" d="M16 1H23A8 8 0 0 1 31 9V37A8 8 0 0 1 23 45H9A8 8 0 0 1 1 37V9A8 8 0 0 1 9 1Z"/></svg><span class="rk__in"><b class="rk__n">6</b><span class="rk__c">—</span></span></span><span class="lbav"><img src="/proto/media/app/default_avatar_male_3.png" alt="" /><img class="lbav__tier" src="/proto/media/app/tier_bronze.png" alt="" /></span><span class="lbw"><span class="lbw__n"><img src="/proto/media/app/flag_ro.png" alt="" />Mihai D.</span><span class="lbw__s">North Stand</span></span><span class="val"><span class="val__n r"><b>3.640</b><sup>st</sup></span><em class="r up">↗8%</em></span></div><div class="lbr" data-i="6" data-rank="7" data-v="2904" style="--slot:6"><span class="rk" style="--sc:rgb(255,59,48);--sp:0.290"><svg viewBox="0 0 32 46"><path class="rk__track" d="M16 1H23A8 8 0 0 1 31 9V37A8 8 0 0 1 23 45H9A8 8 0 0 1 1 37V9A8 8 0 0 1 9 1Z"/><path class="rk__prog" pathLength="1" d="M16 1H23A8 8 0 0 1 31 9V37A8 8 0 0 1 23 45H9A8 8 0 0 1 1 37V9A8 8 0 0 1 9 1Z"/></svg><span class="rk__in"><b class="rk__n">7</b><span class="rk__c">—</span></span></span><span class="lbav"><img src="/proto/media/app/default_avatar_female_1.png" alt="" /><img class="lbav__tier" src="/proto/media/app/tier_bronze.png" alt="" /></span><span class="lbw"><span class="lbw__n"><img src="/proto/media/app/flag_es.png" alt="" />Elena S.</span><span class="lbw__s">Toronto SC</span></span><span class="val"><span class="val__n r"><b>2.904</b><sup>st</sup></span><em class="r down">↘3%</em></span></div></div></div>
                 <div class="lbtab"><span class="is-on"><svg width="26" height="22" viewBox="0 0 26 22" fill="currentColor"><rect x="1" y="9" width="7" height="12" rx="2"/><rect x="9.5" y="5" width="7" height="16" rx="2"/><rect x="18" y="1" width="7" height="20" rx="2"/></svg></span><span><svg width="24" height="24" viewBox="0 0 24 24" fill="none" stroke="currentColor" stroke-width="1.8" stroke-linecap="round" stroke-linejoin="round"><rect x="3" y="3" width="7.5" height="7.5" rx="2"/><rect x="13.5" y="3" width="7.5" height="7.5" rx="2"/><rect x="3" y="13.5" width="7.5" height="7.5" rx="2"/><rect x="13.5" y="13.5" width="7.5" height="7.5" rx="2"/></svg></span><span><img src="/proto/media/app/default_avatar_male_1.png" alt="" /></span><span><svg width="24" height="24" viewBox="0 0 24 24" fill="none" stroke="currentColor" stroke-width="1.8" stroke-linecap="round" stroke-linejoin="round"><rect x="3" y="8" width="18" height="4" rx="1"/><path d="M5 12v8h14v-8M12 8v12M12 8c-1.5-3-5-3.5-5-1s3 1 5 1c2 0 5 1.5 5-1s-3.5-2-5 1"/></svg></span><span><svg width="24" height="24" viewBox="0 0 24 24" fill="none" stroke="currentColor" stroke-width="1.8" stroke-linecap="round" stroke-linejoin="round"><circle cx="12" cy="8" r="4"/><path d="M4 21c1-4 4.5-6 8-6s7 2 8 6"/></svg></span></div>
               </div></div>
               <img class="phone__frame" src="/proto/media/frames/phone-frame-3d.png" alt="" />
             </div>
-            <ul class="points">
-              <li><b>Individuals</b><span>Every member, ranked by steps through the day.</span></li>
-              <li><b>Teams</b><span>Departments, clubs and crews add up as one.</span></li>
-              <li><b>Countries</b><span>Each country's members on one board.</span></li>
-              <li><b>Medals and target</b><span>Gold, silver and bronze, plus points for the daily target.</span></li>
-            </ul>
           </div>
         </article>
         <article class="feat__panel feat__panel--app" aria-labelledby="featRunTitle">
